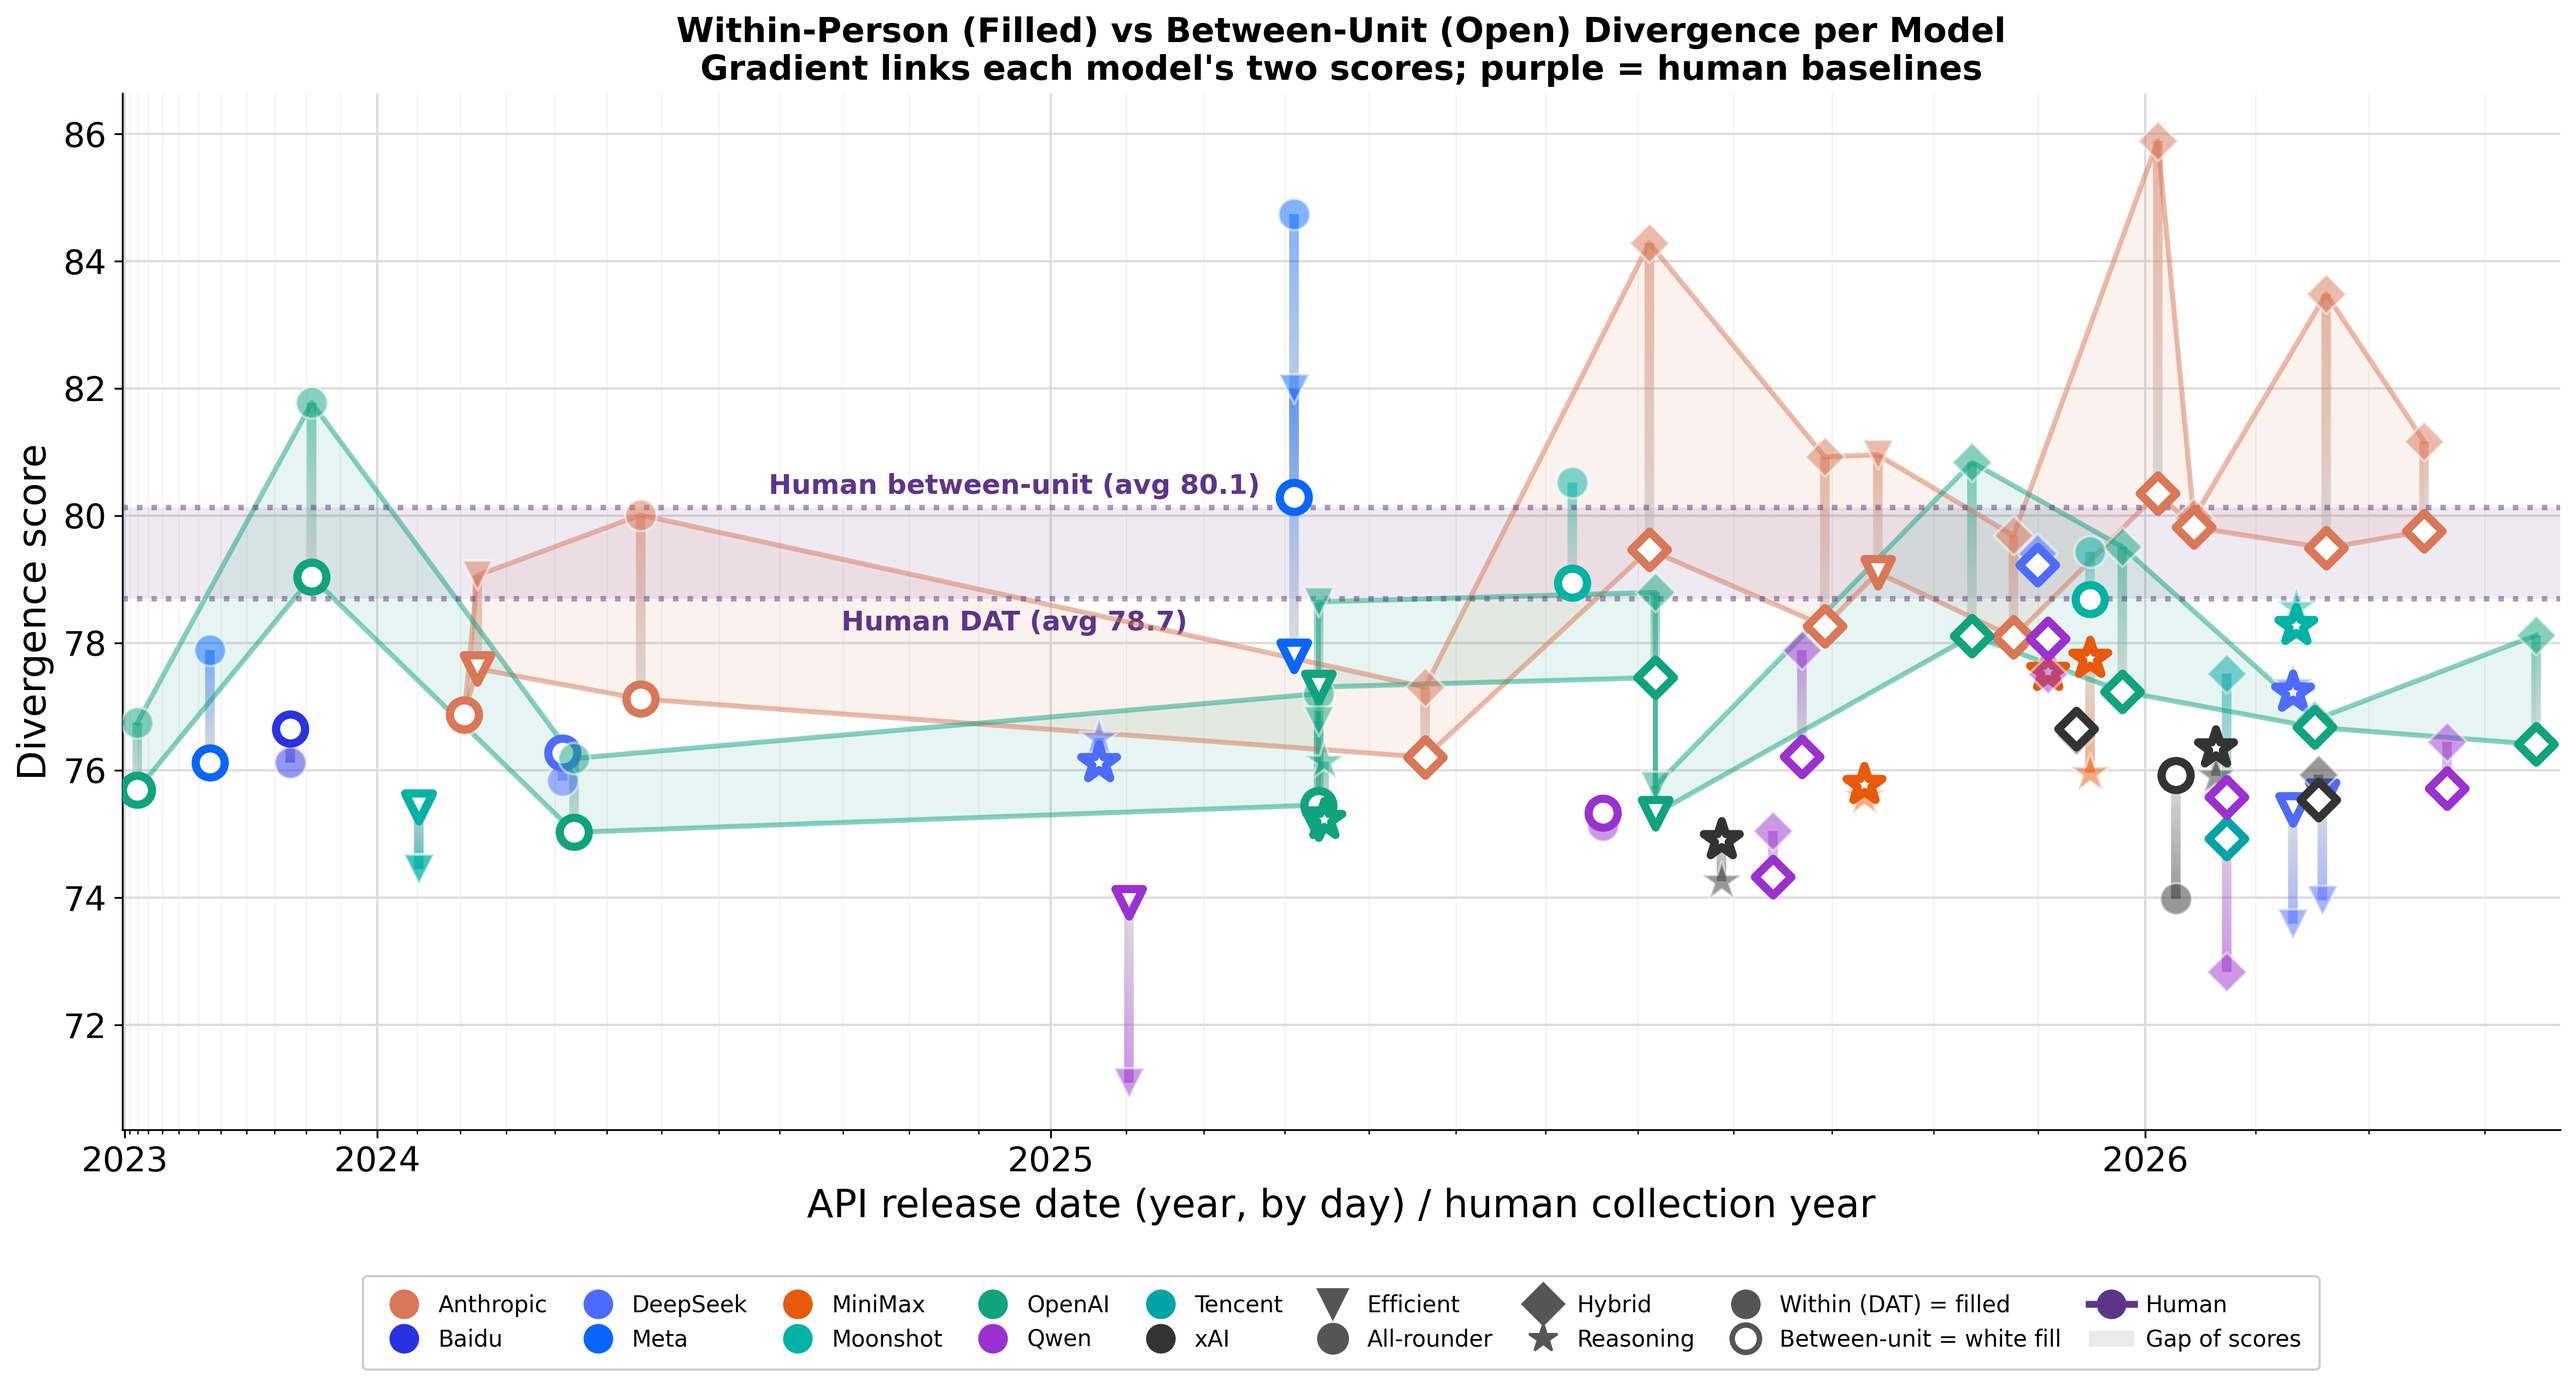
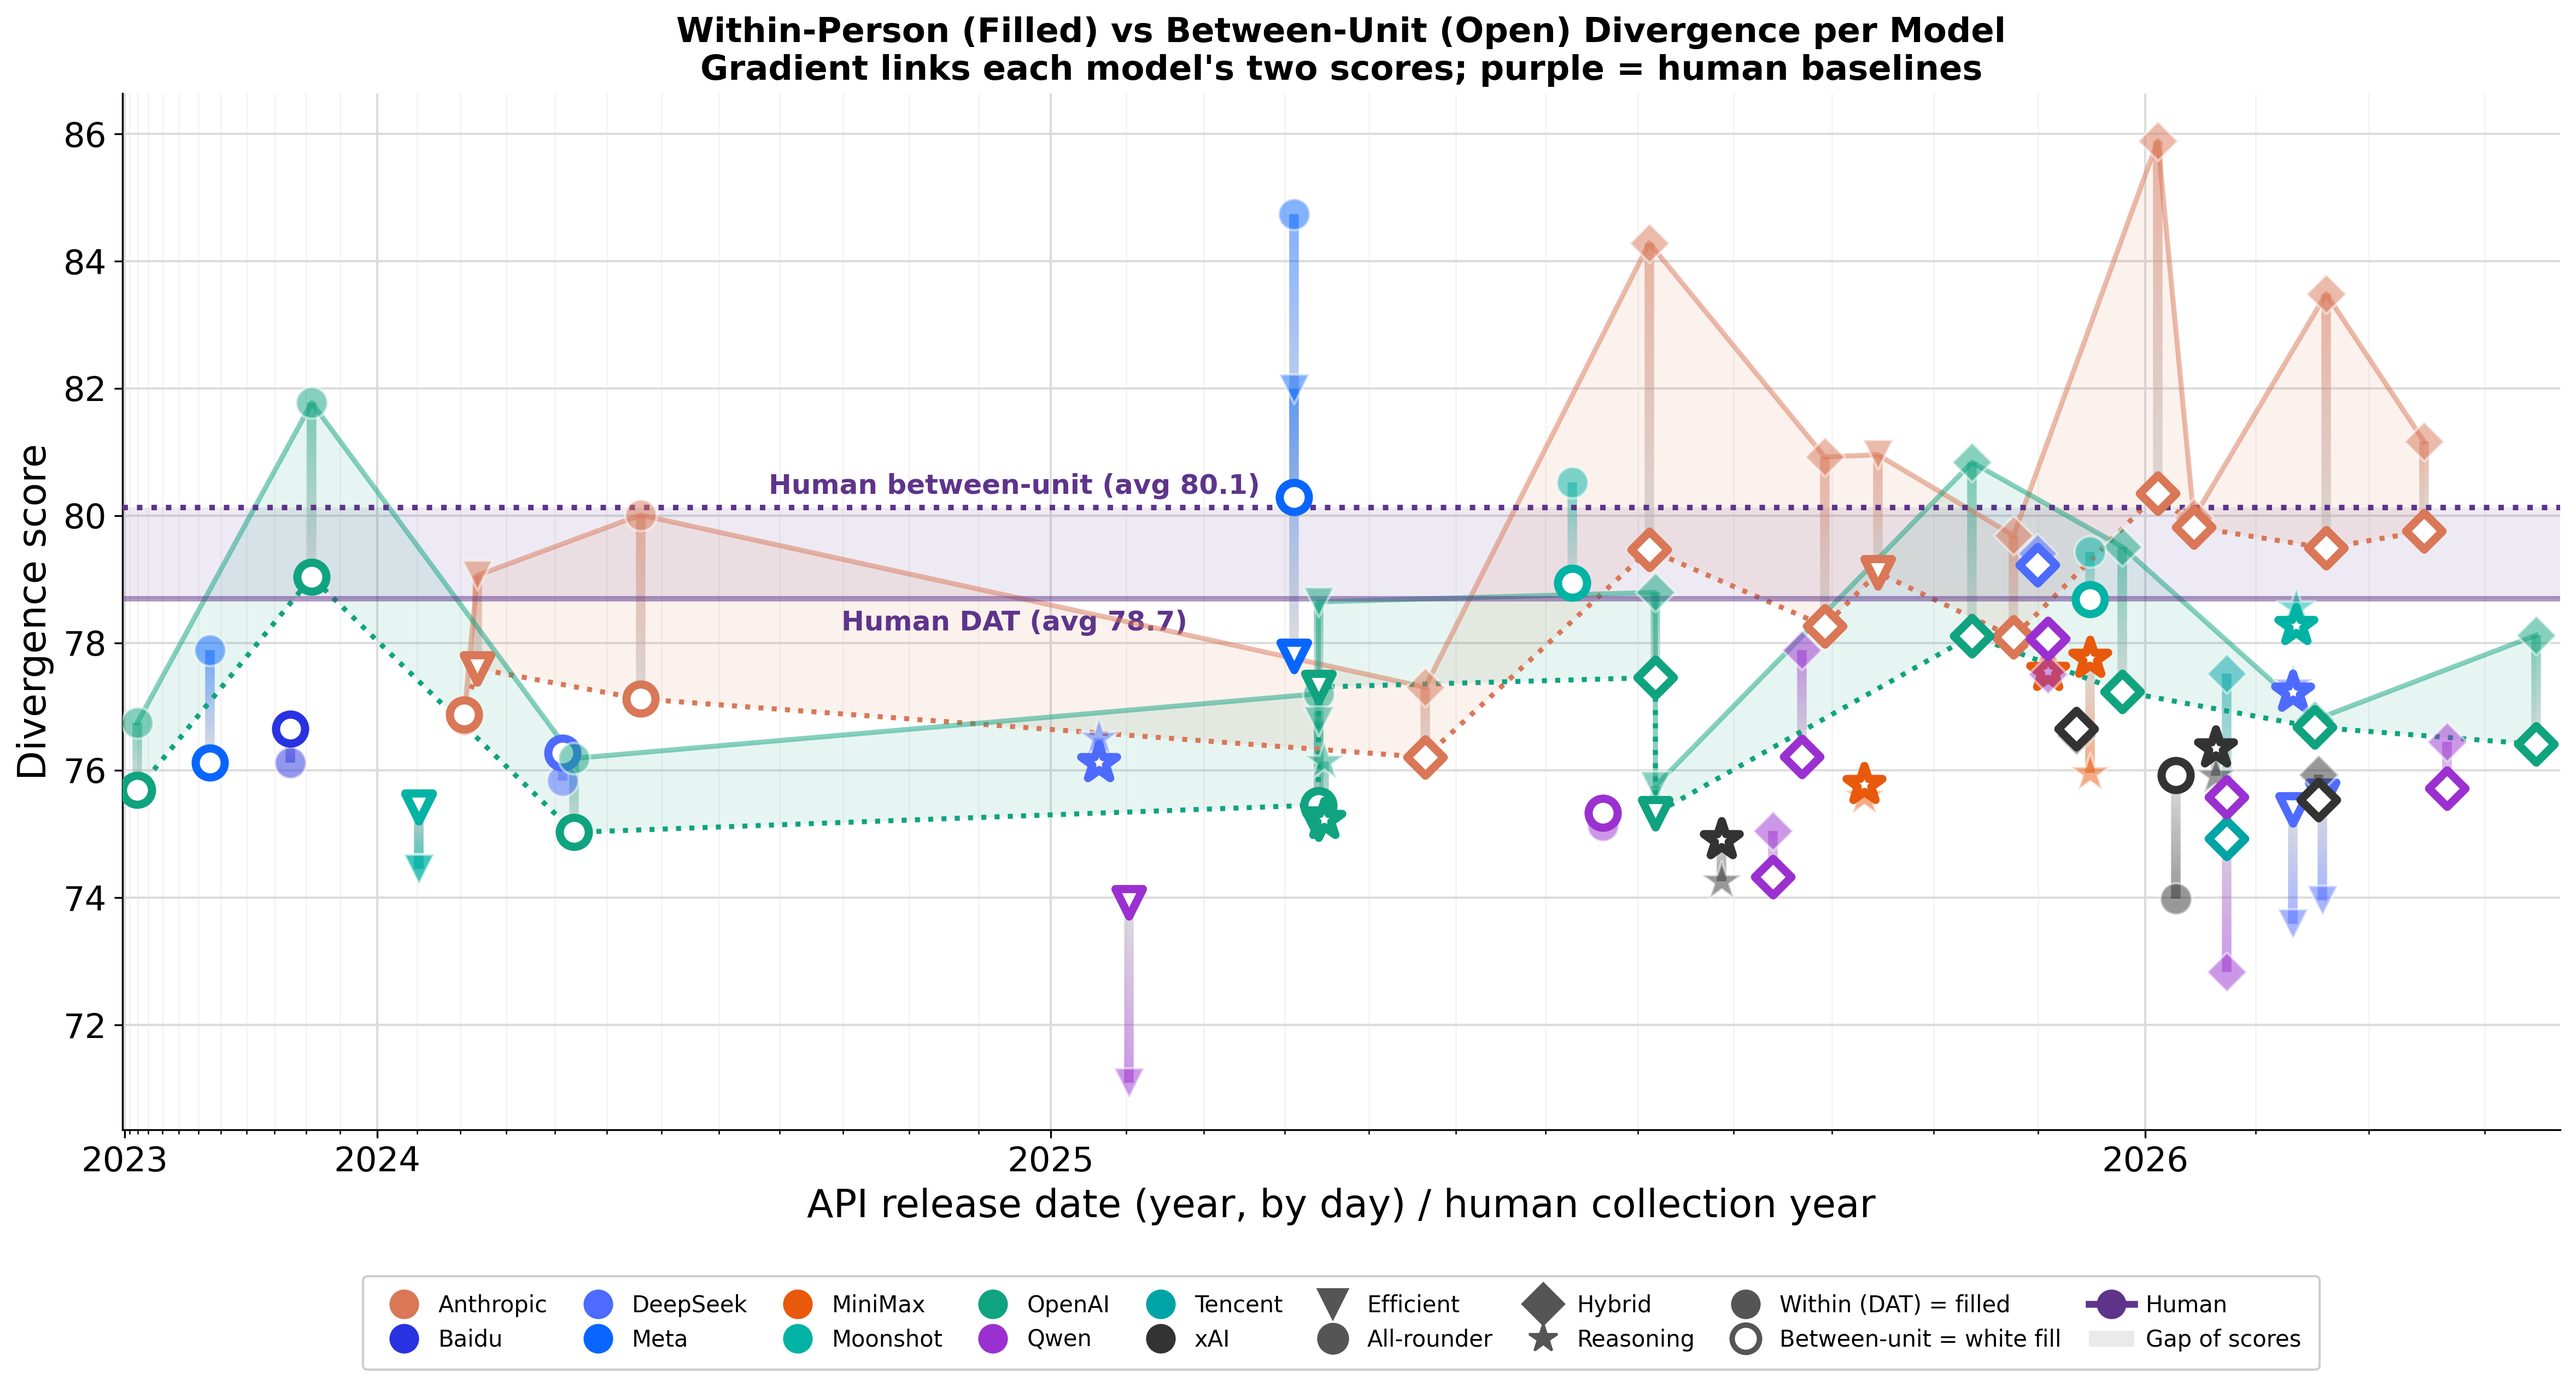
Overlay: DAT horizontal lines solid @0.50; between-unit horizontal lines dotted @full alpha (human, Claude, OpenAI)

diff --git a/analysis/within_vs_between_overlay_plot.py b/analysis/within_vs_between_overlay_plot.py
@@ -57,8 +57,8 @@ _havg=_json.load(open("human_avg.json"))
 HUMAN_DAT_AVG=_havg["human_dat_mean"]        # pooled mean human DAT
 HUMAN_BTW_AVG=_havg["human_between_mean"]     # pooled mean human between-unit
 _xL,_xR=tx(xmin),tx(xmax)
-ax.plot([_xL,_xR],[HUMAN_DAT_AVG,HUMAN_DAT_AVG],':',color=HUMAN_PURPLE,lw=2.4,alpha=0.50,zorder=5)
-ax.plot([_xL,_xR],[HUMAN_BTW_AVG,HUMAN_BTW_AVG],':',color=HUMAN_PURPLE,lw=2.4,alpha=0.50,zorder=5)
+ax.plot([_xL,_xR],[HUMAN_DAT_AVG,HUMAN_DAT_AVG],'-',color=HUMAN_PURPLE,lw=2.4,alpha=0.50,zorder=5)
+ax.plot([_xL,_xR],[HUMAN_BTW_AVG,HUMAN_BTW_AVG],':',color=HUMAN_PURPLE,lw=2.4,alpha=1.0,zorder=5)
 ax.fill_between([_xL,_xR],[HUMAN_DAT_AVG]*2,[HUMAN_BTW_AVG]*2,color=HUMAN_PURPLE,alpha=0.10,zorder=2,linewidth=0)
 ax.annotate(f"Human DAT (avg {HUMAN_DAT_AVG:.1f})",(tx(2025-0.5/12),HUMAN_DAT_AVG),textcoords="offset points",xytext=(0,-14),ha='center',fontsize=12,weight='bold',color=HUMAN_PURPLE)
 ax.annotate(f"Human between-unit (avg {HUMAN_BTW_AVG:.1f})",(tx(2025-0.5/12),HUMAN_BTW_AVG),textcoords="offset points",xytext=(0,6),ha='center',fontsize=12,weight='bold',color=HUMAN_PURPLE)
@@ -71,7 +71,7 @@ def _lineage_connectors(prefix, color, shade=True):
     _yd=[dat[m][7] for m in ms]
     _yb=[btw[m][7] for m in ms]
     ax.plot(_xs,_yd,'-',color=color,lw=2.2,alpha=0.50,zorder=4)
-    ax.plot(_xs,_yb,'-',color=color,lw=2.2,alpha=0.50,zorder=4)
+    ax.plot(_xs,_yb,':',color=color,lw=2.2,alpha=1.0,zorder=4)
     if shade:
         ax.fill_between(_xs,_yd,_yb,color=color,alpha=0.10,zorder=2,linewidth=0)
 _lineage_connectors("claude", PROV_COLOR['anthropic'], shade=True)
